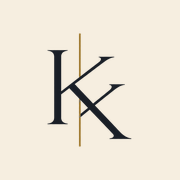
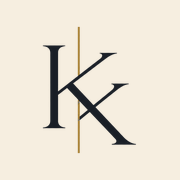
Surface Kind Projects early and open it to individual creatives
A quiet Kind Project Rule hint now sits under the hero CTAs on both
front pages, linking down to the dark section. The kind section itself
gains a paragraph for individual creatives (illustrators, musicians,
photographers) with the Amanda case as the natural proof; her case copy
now names her as illustrator and postcard artist and stresses that she
tends the site herself.

Also in this polish round: the header lockup is about 12% larger with
more air around the monogram, favicons are re-derived with a tighter
crop so the mark reads in a 16px tab, the secondary hero shot is toned
down so the portrait leads, the projects thesis gets more breathing
room, and the contact section closes on "Har du noget, du prøver at få
ud i verden? Skriv." instead of corporate copy.

diff --git a/en/index.html b/en/index.html
@@ -114,6 +114,12 @@
             <a class="btn btn-primary" href="#projects">See projects &rarr;</a>
             <a class="btn btn-ghost" href="#contact">Get in touch</a>
           </div>
+          <p class="kind-hint reveal">
+            <span class="kind-hint-label mono">The Kind Project Rule</span>
+            Small cultural projects, volunteer initiatives and creative people
+            are always welcome to write. Sometimes I help for free, when time
+            allows. <a href="#kind-projects">More about&nbsp;that&nbsp;&darr;</a>
+          </p>
         </div>
         <div class="hero-shots reveal">
           <figure class="shot portrait-shot">
@@ -275,17 +281,18 @@
             <div class="case-body">
               <span class="case-label mono">04 / Portfolio for an artist</span>
               <h3>Amanda Barup</h3>
-              <span class="case-meta mono">Illustrator &middot; Next.js &middot; Sanity CMS</span>
+              <span class="case-meta mono">Illustrator and postcard artist &middot; Next.js &middot; Sanity CMS</span>
               <p>
-                Amanda draws people, movement and everyday moments, and she needed
-                a place to show her work and sell postcards, without a web shop
-                and without hassle. We landed on one long page where the art gets
-                room to breathe, and a built-in studio where Amanda changes works,
-                texts and prices herself. Changes are live within a minute.
+                Amanda draws people, movement and everyday moments, and sells her
+                drawings as postcards. She was missing a place where the work
+                could live, without a web shop and without hassle. We landed on
+                one long page where the art gets room to breathe, and a built-in
+                studio where Amanda changes works, texts and prices herself.
+                Changes are live within a minute.
               </p>
               <p>
                 Postcards are ordered with a no-obligation email instead of a
-                cart. The art comes first.
+                cart. The art comes first, in a home she can tend herself.
               </p>
               <span class="case-role mono">My role: design, development and CMS setup</span>
               <ul class="tag-row" aria-label="Topics">
@@ -431,6 +438,12 @@
               simply thinking things through until the idea can stand on its own.
             </p>
             <p class="reveal">
+              This goes for individuals too. If you're an illustrator, musician,
+              photographer or some other kind of creative, and your work needs a
+              proper home online, write. Amanda's portfolio above started exactly
+              like that.
+            </p>
+            <p class="reveal">
               It's not a business model. I just like it when good ideas become
               real, and good things happen when people pull together.
             </p>
@@ -443,10 +456,10 @@
             <div class="kind-list reveal">
               <span class="kind-list-title mono">Examples of kind projects</span>
               <ul>
-              <li>Local associations and communities</li>
-              <li>Cultural initiatives and events</li>
-              <li>Volunteer-driven projects</li>
-              <li>Nonprofit and socially meaningful</li>
+              <li>Local associations, clubs and communities</li>
+              <li>Cultural initiatives, festivals and events</li>
+              <li>Volunteer-driven and nonprofit projects</li>
+              <li>Artists, illustrators, musicians and other creatives</li>
               <li>Or simply a good idea that deserves a hand</li>
               </ul>
             </div>
@@ -482,10 +495,10 @@
       <div class="wrap section-grid">
         <p class="rail mono">Contact</p>
         <div>
-          <h2 id="contact-heading" class="reveal">Write if you want to make something together.</h2>
+          <h2 id="contact-heading" class="reveal">Trying to get something out into the world? <em>Write.</em></h2>
           <p class="lead reveal">
             Projects, collaboration, cultural work, or a good idea that needs
-            hands. Danish or English. Tell me what you're trying to make.
+            hands. Danish or English.
           </p>
           <ul class="contact-rows reveal">
             <li>
@@ -501,7 +514,7 @@
               <span>Aarhus, Denmark</span>
             </li>
           </ul>
-          <p class="hand contact-hand reveal">Let's make something good together.</p>
+          <p class="hand contact-hand reveal">Even if it's still just a loose idea.</p>
         </div>
       </div>
     </section>

diff --git a/index.html b/index.html
@@ -114,6 +114,12 @@
             <a class="btn btn-primary" href="#projekter">Se projekter &rarr;</a>
             <a class="btn btn-ghost" href="#kontakt">Kontakt mig</a>
           </div>
+          <p class="kind-hint reveal">
+            <span class="kind-hint-label mono">The Kind Project Rule</span>
+            Små kulturprojekter, frivillige initiativer og kreative mennesker må
+            altid gerne skrive. Nogle gange hjælper jeg gratis, når tiden er til
+            det. <a href="#kind-projects">Mere om&nbsp;det&nbsp;&darr;</a>
+          </p>
         </div>
         <div class="hero-shots reveal">
           <figure class="shot portrait-shot">
@@ -275,17 +281,17 @@
             <div class="case-body">
               <span class="case-label mono">04 / Portfolio for en kunstner</span>
               <h3>Amanda Barup</h3>
-              <span class="case-meta mono">Illustrator &middot; Next.js &middot; Sanity CMS</span>
+              <span class="case-meta mono">Illustrator og postkortkunstner &middot; Next.js &middot; Sanity CMS</span>
               <p>
-                Amanda tegner mennesker, bevægelse og øjeblikke, og hun havde brug
-                for et sted at vise værkerne og sælge postkort, uden webshop og uden
-                bøvl. Vi landede på én lang side, hvor kunsten får ro, og et
-                indbygget studie, hvor Amanda selv ændrer værker, tekster og priser.
-                Ændringer er live inden for et minut.
+                Amanda tegner mennesker, bevægelse og øjeblikke og sælger sine
+                tegninger som postkort. Hun manglede et sted, hvor værkerne kan bo,
+                uden webshop og uden bøvl. Vi landede på én lang side, hvor kunsten
+                får ro, og et indbygget studie, hvor Amanda selv ændrer værker,
+                tekster og priser. Ændringer er live inden for et minut.
               </p>
               <p>
                 Postkort bestilles med en uforpligtende mail i stedet for en kurv.
-                Kunsten først.
+                Kunsten først, i et hjem hun selv kan passe.
               </p>
               <span class="case-role mono">Min rolle: Design, udvikling og CMS-opsætning</span>
               <ul class="tag-row" aria-label="Emner">
@@ -430,6 +436,12 @@
               til idéen kan stå selv.
             </p>
             <p class="reveal">
+              Det gælder også enkeltpersoner. Er du illustrator, musiker, fotograf
+              eller noget helt fjerde kreativt, og mangler dit arbejde et ordentligt
+              hjem online, så skriv. Amandas portfolio ovenfor startede præcis
+              sådan.
+            </p>
+            <p class="reveal">
               Det er ikke en forretningsmodel. Jeg kan bare godt lide, når gode
               idéer bliver til noget, og gode ting sker, når vi løfter i flok.
             </p>
@@ -442,10 +454,10 @@
             <div class="kind-list reveal">
               <span class="kind-list-title mono">Eksempler på kind projects</span>
               <ul>
-              <li>Lokale foreninger og fællesskaber</li>
-              <li>Kulturelle initiativer og events</li>
-              <li>Frivilligdrevne projekter</li>
-              <li>Nonprofit og socialt meningsfuldt</li>
+              <li>Lokale foreninger, klubber og fællesskaber</li>
+              <li>Kulturelle initiativer, festivaler og events</li>
+              <li>Frivilligdrevne og nonprofit-projekter</li>
+              <li>Kunstnere, illustratorer, musikere og andre kreative</li>
               <li>Eller bare en god idé, der fortjener en hånd</li>
               </ul>
             </div>
@@ -481,10 +493,10 @@
       <div class="wrap section-grid">
         <p class="rail mono">Kontakt</p>
         <div>
-          <h2 id="contact-heading" class="reveal">Skriv, hvis du vil noget sammen.</h2>
+          <h2 id="contact-heading" class="reveal">Har du noget, du prøver at få ud i verden? <em>Skriv.</em></h2>
           <p class="lead reveal">
             Projekter, samarbejde, kulturarbejde eller en god idé, der mangler
-            hænder. Dansk eller engelsk. Fortæl, hvad du prøver at lave.
+            hænder. Dansk eller engelsk.
           </p>
           <ul class="contact-rows reveal">
             <li>
@@ -500,7 +512,7 @@
               <span>Aarhus, Danmark</span>
             </li>
           </ul>
-          <p class="hand contact-hand reveal">Lad os skabe noget godt sammen.</p>
+          <p class="hand contact-hand reveal">Også hvis det kun er en løs idé endnu.</p>
         </div>
       </div>
     </section>

diff --git a/css/site.css b/css/site.css
@@ -180,16 +180,16 @@ img { max-width: 100%; height: auto; display: block; }
 .brand {
   display: flex;
   align-items: center;
-  gap: 0.75rem;
+  gap: 0.95rem;
   text-decoration: none;
   white-space: nowrap;
 }
 
-.brand-mark { height: 2.15rem; width: auto; }
+.brand-mark { height: 2.45rem; width: auto; }
 
 .wordmark {
   font-family: var(--font-serif);
-  font-size: 1.55rem;
+  font-size: 1.7rem;
   font-weight: 600;
   color: var(--ink-strong);
   letter-spacing: 0.01em;
@@ -349,6 +349,23 @@ section { padding-block: clamp(3.5rem, 8vw, 6.5rem); }
 
 .btn-ghost:hover { border-color: var(--brass); color: var(--accent-ink); transform: translateY(-2px); }
 
+/* Kind-hint: en stille invitation under heroens CTA'er, ikke en tredje CTA. */
+.kind-hint {
+  margin-top: 2.2rem;
+  padding-top: 1.2rem;
+  border-top: 1px solid var(--line-soft);
+  max-width: var(--measure);
+  font-size: 0.95rem;
+  line-height: 1.6;
+  color: var(--muted);
+}
+
+.kind-hint-label {
+  display: block;
+  color: var(--brass);
+  margin-bottom: 0.4rem;
+}
+
 /* Portrættet forrest, et rigtigt skærmbillede stukket ind bagved. */
 .hero-shots { position: relative; }
 
@@ -381,9 +398,9 @@ section { padding-block: clamp(3.5rem, 8vw, 6.5rem); }
 
 .shot-secondary {
   position: absolute;
-  left: -1rem;
-  bottom: -2.75rem;
-  width: 54%;
+  left: -0.5rem;
+  bottom: -3.1rem;
+  width: 48%;
 }
 
 @media (min-width: 1001px) {
@@ -435,6 +452,12 @@ section { padding-block: clamp(3.5rem, 8vw, 6.5rem); }
 }
 
 /* ---------- Projekter ---------- */
+
+/* Overskrift og undertekst fungerer som en lille tese; giv dem ro før første case. */
+#projekter .section-sub,
+#projects .section-sub {
+  margin-bottom: clamp(1.8rem, 4vw, 3rem);
+}
 
 .case {
   display: grid;
@@ -838,6 +861,9 @@ section { padding-block: clamp(3.5rem, 8vw, 6.5rem); }
 
   .shot-secondary { display: none; }
   .hero-note { bottom: -2.4rem; }
+
+  /* Endnu mere stille på små skærme. */
+  .kind-hint { margin-top: 1.8rem; padding-top: 1rem; font-size: 0.88rem; }
 
   .more-list li { grid-template-columns: 1fr; gap: 0.2rem; }
 }

diff --git a/tools/make-identity-assets.py b/tools/make-identity-assets.py
@@ -115,8 +115,9 @@ def plate(size, pad_frac=0.18, radius_frac=0.0):
     canvas.alpha_composite(m, ((size - m.width)//2, (size - m.height)//2))
     return canvas
 
-plate(256, 0.16, 0.19).save('assets/favicon.ico',
+# Stram crop: monogrammet skal kunne læses i en 16 px fane.
+plate(256, 0.10, 0.16).save('assets/favicon.ico',
     sizes=[(16, 16), (32, 32), (48, 48)])
-plate(64, 0.14, 0.19).save('assets/favicon.png')
-plate(180, 0.17, 0.0).save('assets/apple-touch-icon.png')
+plate(64, 0.09, 0.16).save('assets/favicon.png')
+plate(180, 0.13, 0.0).save('assets/apple-touch-icon.png')
 print('done')

diff --git a/docs/design-system.md b/docs/design-system.md
@@ -60,6 +60,9 @@ muted text still needs 4.5:1 contrast.
   small ivory plate.
 - `.section-grid` + `.rail`: every section is a two-column grid with a sticky
   mono label rail on the left (stacks on mobile).
+- `.kind-hint`: the quiet Kind Projects invitation under the hero CTAs, a
+  brass mono label over two muted lines and an anchor down to `#kind-projects`.
+  Deliberately not a third CTA; it shrinks further on mobile.
 - `.hero-grid` + `.hero-shots`: the hero copy beside the real portrait
   (`.portrait-shot`), one overlapping project screenshot (`.shot-secondary`)
   and a single handwritten `.hero-note`. `.shot` is the standard frame for
